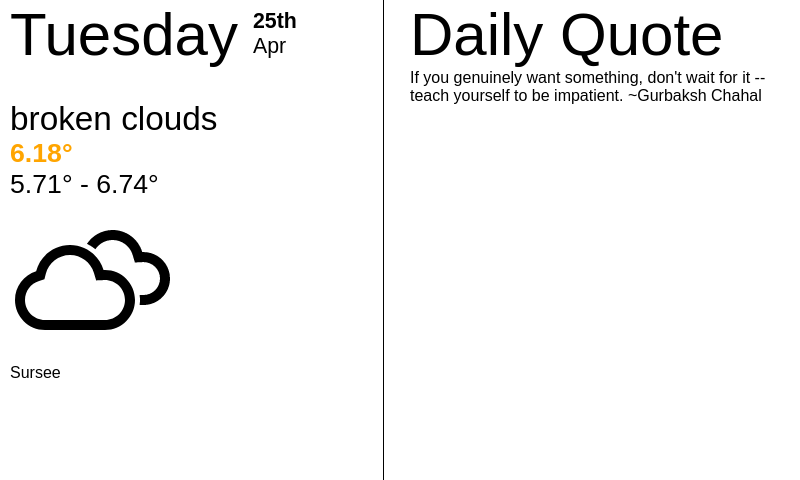
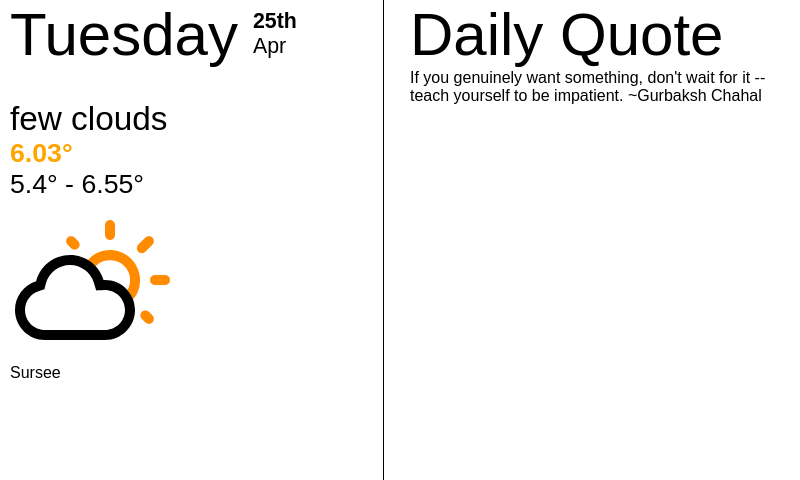
changed html.sh

Changed region(s): [[0.0, 0.4375, 0.2188, 0.7188], [0.0, 0.2188, 0.2812, 0.4062]]

diff --git a/dashboard.html b/dashboard.html
@@ -16,10 +16,10 @@
             </span>
           </div>   
         <div id="wetter">
-          <span id="weather-description"> broken clouds<br/></span>
-          <span id="weather-temp">6.18°<br/></span>
-          <span id="weather-tempminmax">5.71° - 6.74°<br/></span>
-          <img id="today-icon" src=icons/04n.svg alt="04n"><br/>
+          <span id="weather-description"> few clouds<br/></span>
+          <span id="weather-temp">6.03°<br/></span>
+          <span id="weather-tempminmax">5.4° - 6.55°<br/></span>
+          <img id="today-icon" src=icons/02n.svg alt="02n"><br/>
           Sursee<br/>
         </div>
         <div class="vl"></div>
